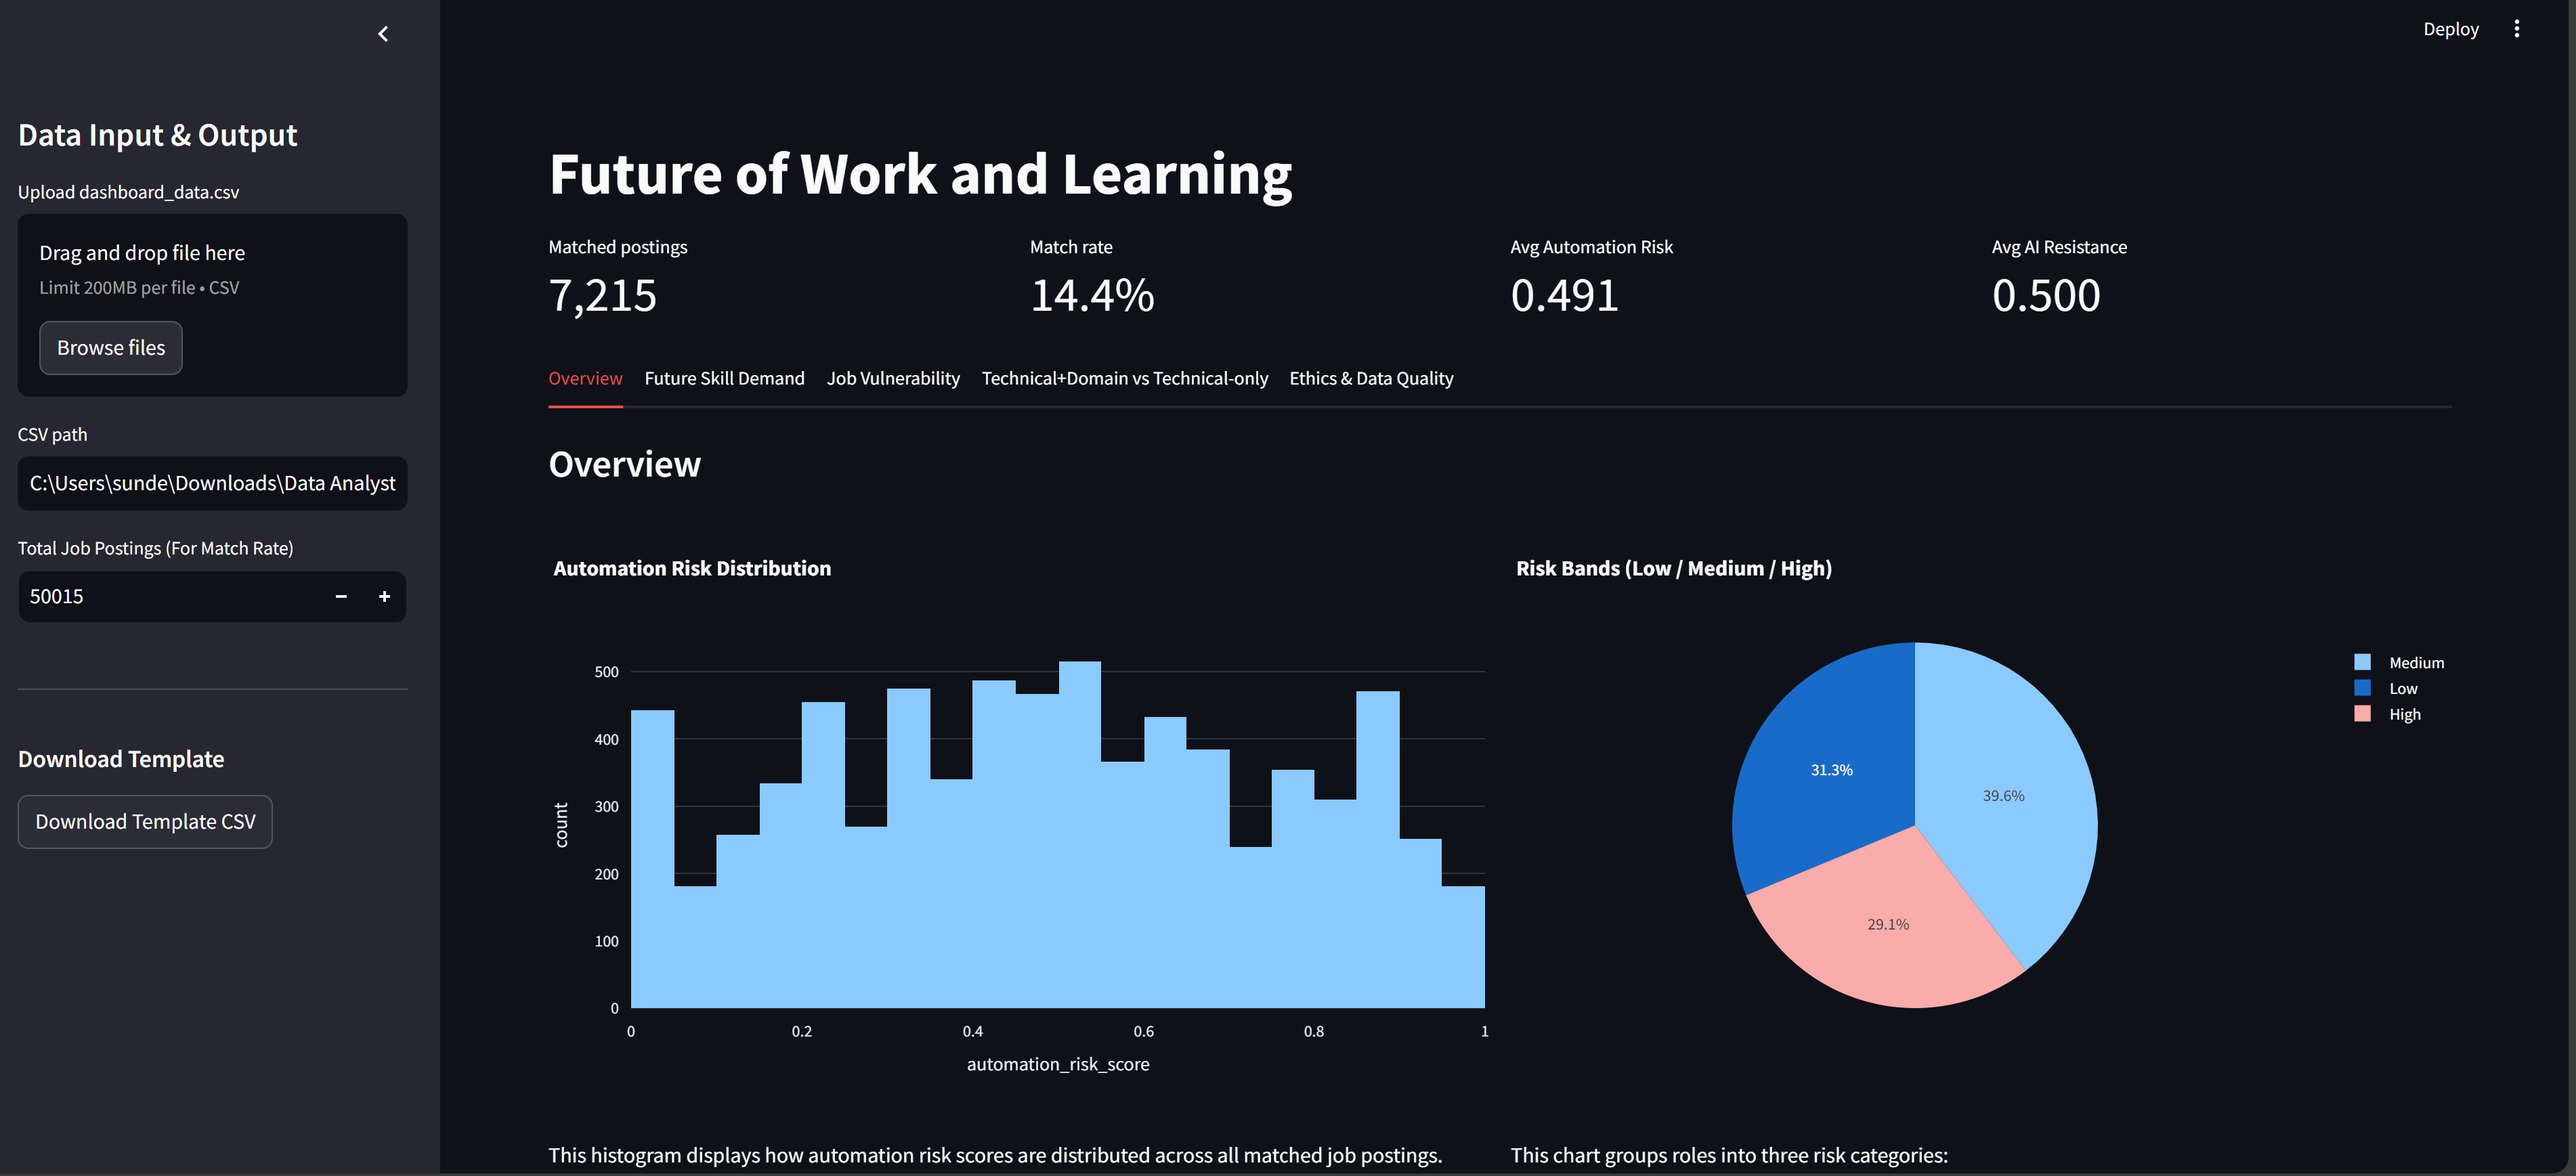
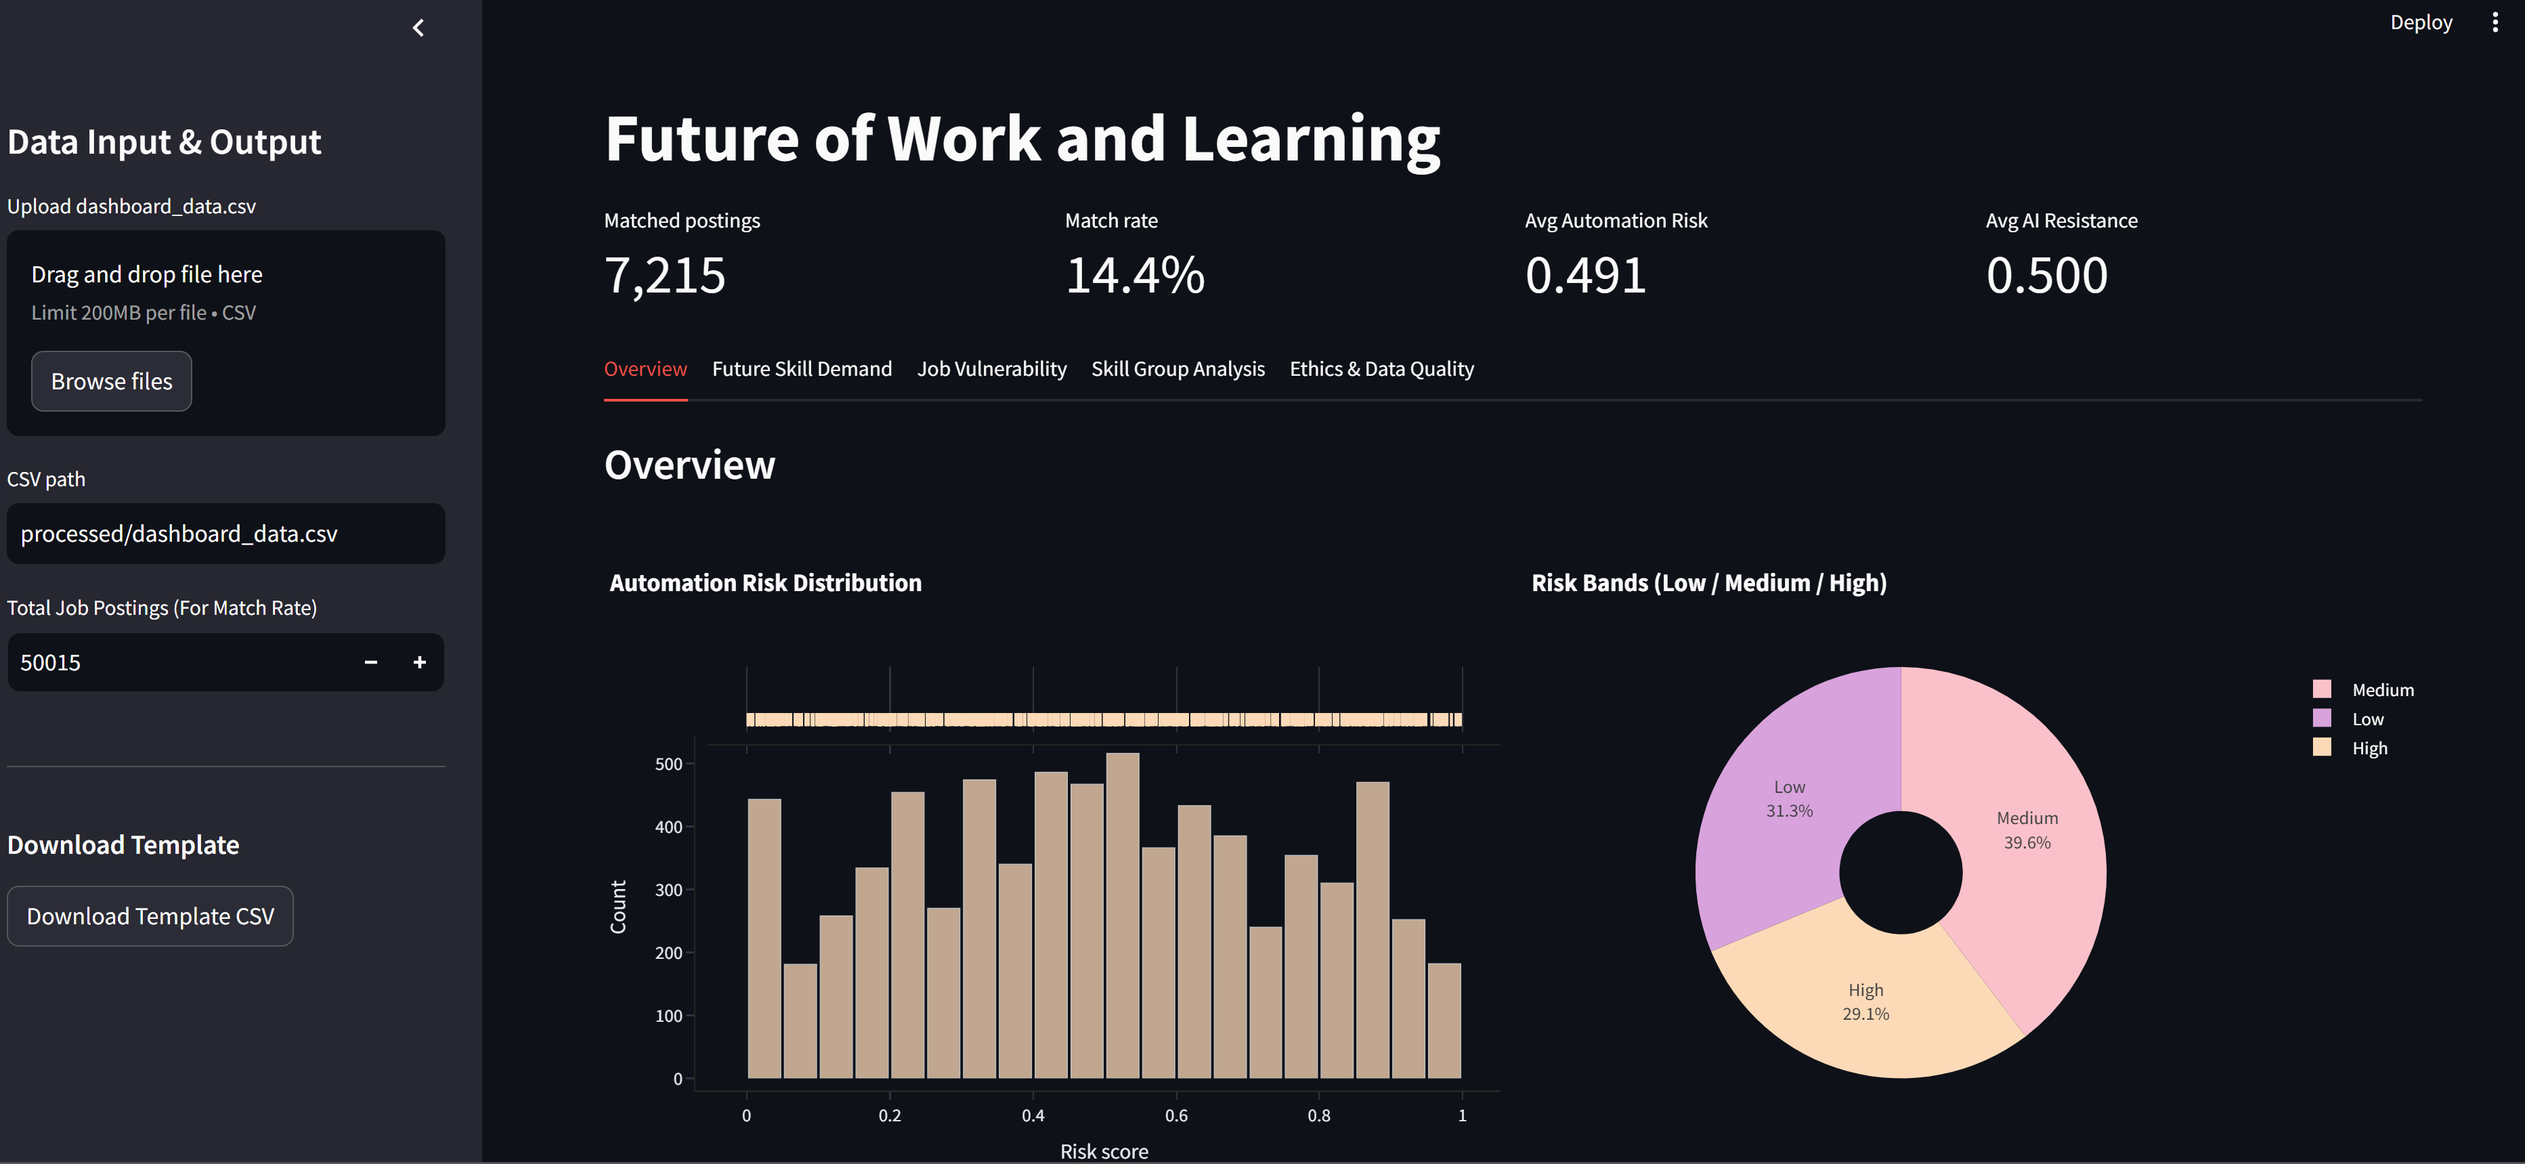
improved visuals

diff --git a/app.py b/app.py
@@ -175,7 +175,7 @@ tabs = st.tabs([
     "Overview",
     "Future Skill Demand",
     "Job Vulnerability",
-    "Technical+Domain vs Technical-only",
+    "Skill Group Analysis",
     "Ethics & Data Quality",
 ])
 

diff --git a/README.md b/README.md
@@ -160,7 +160,7 @@ For H1a (human-centred skills vs. automation risk), a slight downward trend was 
 
 For H1b (task repetition vs. automation risk), the scatter plot appeared flat and widely dispersed, with no visible pattern. This supports the statistical results, which showed that task repetition does not significantly predict automation risk.
 
-![alt text](Assets/image-1.png)
+![alt text](Assets/image2.png)
 
 #### Business Implications 
 From a strategic point of view, the findings suggest that simply placing more emphasis on general “human skills” may not be enough to significantly reduce graduates’ risk of being affected by automation. Although communication and creativity are still important, they should not be seen as the only protection against automation.
@@ -175,11 +175,11 @@ The comparison focused on two outcomes: automation risk and job growth. Bar char
 
 For H2a (automation risk), a clear difference between the two groups was observed. Tech+Domain roles demonstrated lower average automation risk compared to technical-only roles. This visual difference aligns with the statistically significant result obtained from the hypothesis test.
 
-![alt text](Assets/image-2.png)
+![alt text](Assets/image3.png)
 
 For H2b (job growth), Tech + Domain roles show a higher average job growth rate than technical-only roles. However, this difference is not statistically significant (p = 0.292). Although the bar chart indicates a visual difference between the groups, the statistical test suggests that this variation may be due to chance. Therefore, there is insufficient evidence to conclude that combining technical and domain skills significantly influences projected job growth in this dataset.
 
-![alt text](Assets/image-3.png)
+![alt text](Assets/image4.png)
 
 #### Business Implications 
 The results give useful guidance for curriculum planning. Although Tech + Domain roles do not show significantly higher job growth, they are linked to much lower automation risk. This suggests that these roles may offer better long-term stability.
@@ -195,6 +195,8 @@ Instead of showing visuals, the model performance metrics (R² and RMSE) were re
 ML results
 - R^2 : 0.01
 - RMSE: 0.266 
+
+![alt text](Assets/ML.png)
 
 This means:
  - The model explains only a small part of the variation.
@@ -296,7 +298,7 @@ This allows users to compare multiple factors at the same time.
 * Risk band classification
 * A supporting data table
 
-#### 4. Technical+Domain vs Technical-only
+#### 4. Skill Group Analysis
 Compare hybrid roles (Technical + Domain skills) with technical-only roles. Roles are grouped based on skill type. The analysis compares differences in automation risk and job growth.
 
 **Includes:**
@@ -322,6 +324,10 @@ Users can:
 * Use a default dataset
 * Download a template to follow the correct structure
 
+![alt text](<Assets/Data input-ouput.png>)
+
+![alt text](<Assets/Template .png>)
+
 Before analysis begins, the dashboard checks that required columns and correct data types are present. This prevents errors and ensures consistency.
 
 At the top of the dashboard, summary metrics give a quick overview:
@@ -332,6 +338,8 @@ At the top of the dashboard, summary metrics give a quick overview:
 * **Average AI-resistance score** – Mean resilience score
 
 These KPIs provide quick insight before detailed exploration.
+
+![alt text](Assets/kpi.png)
 
 #### Data Output and Transparency
 
